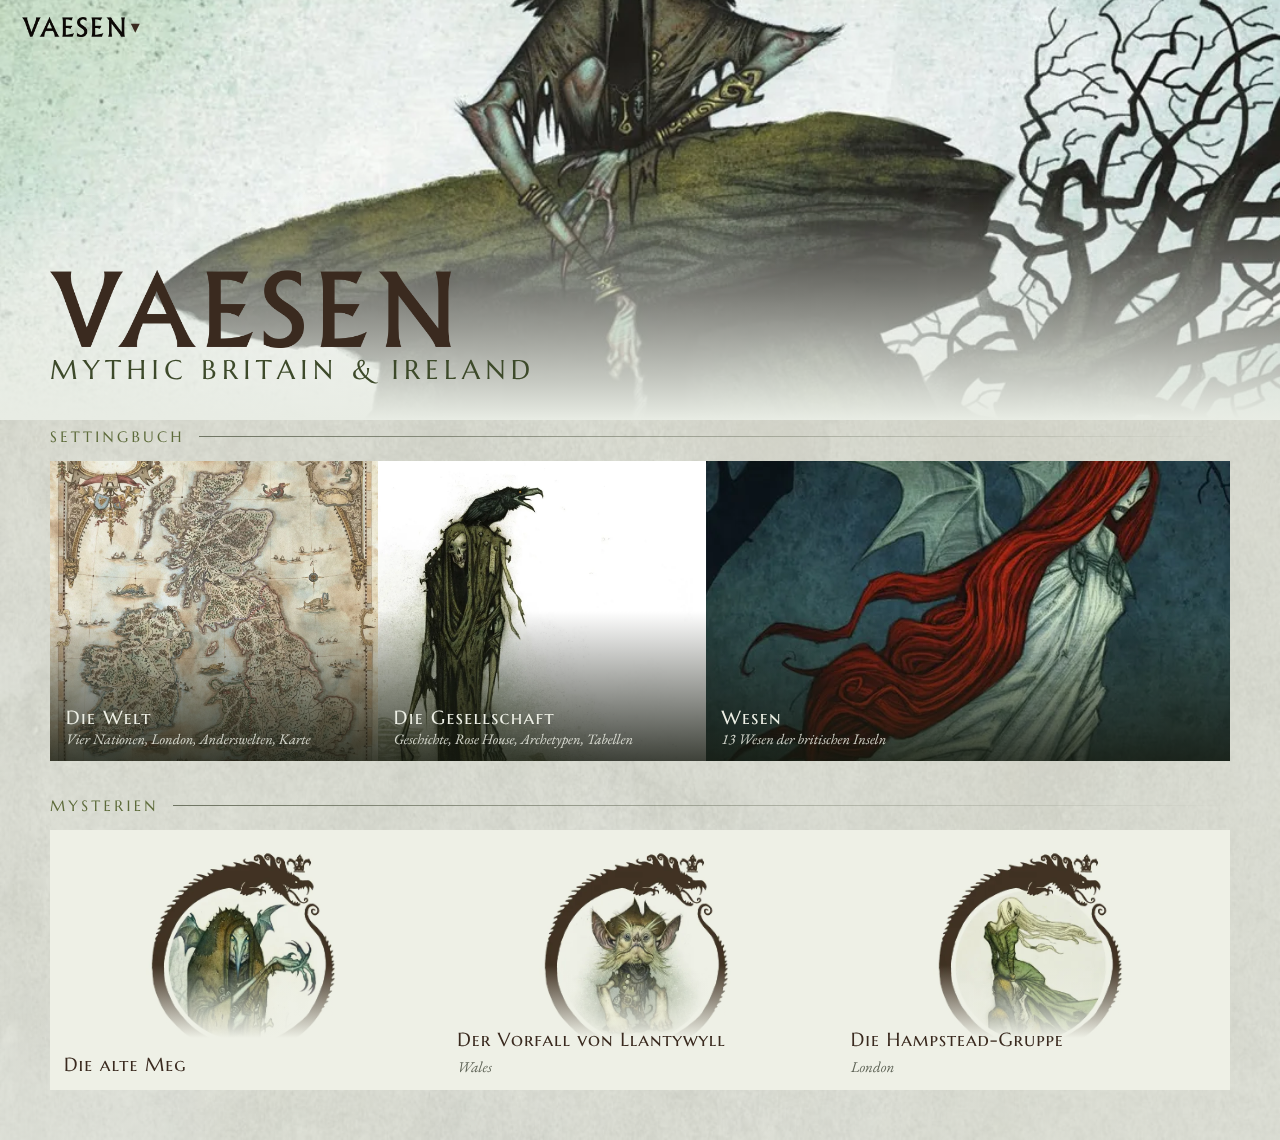
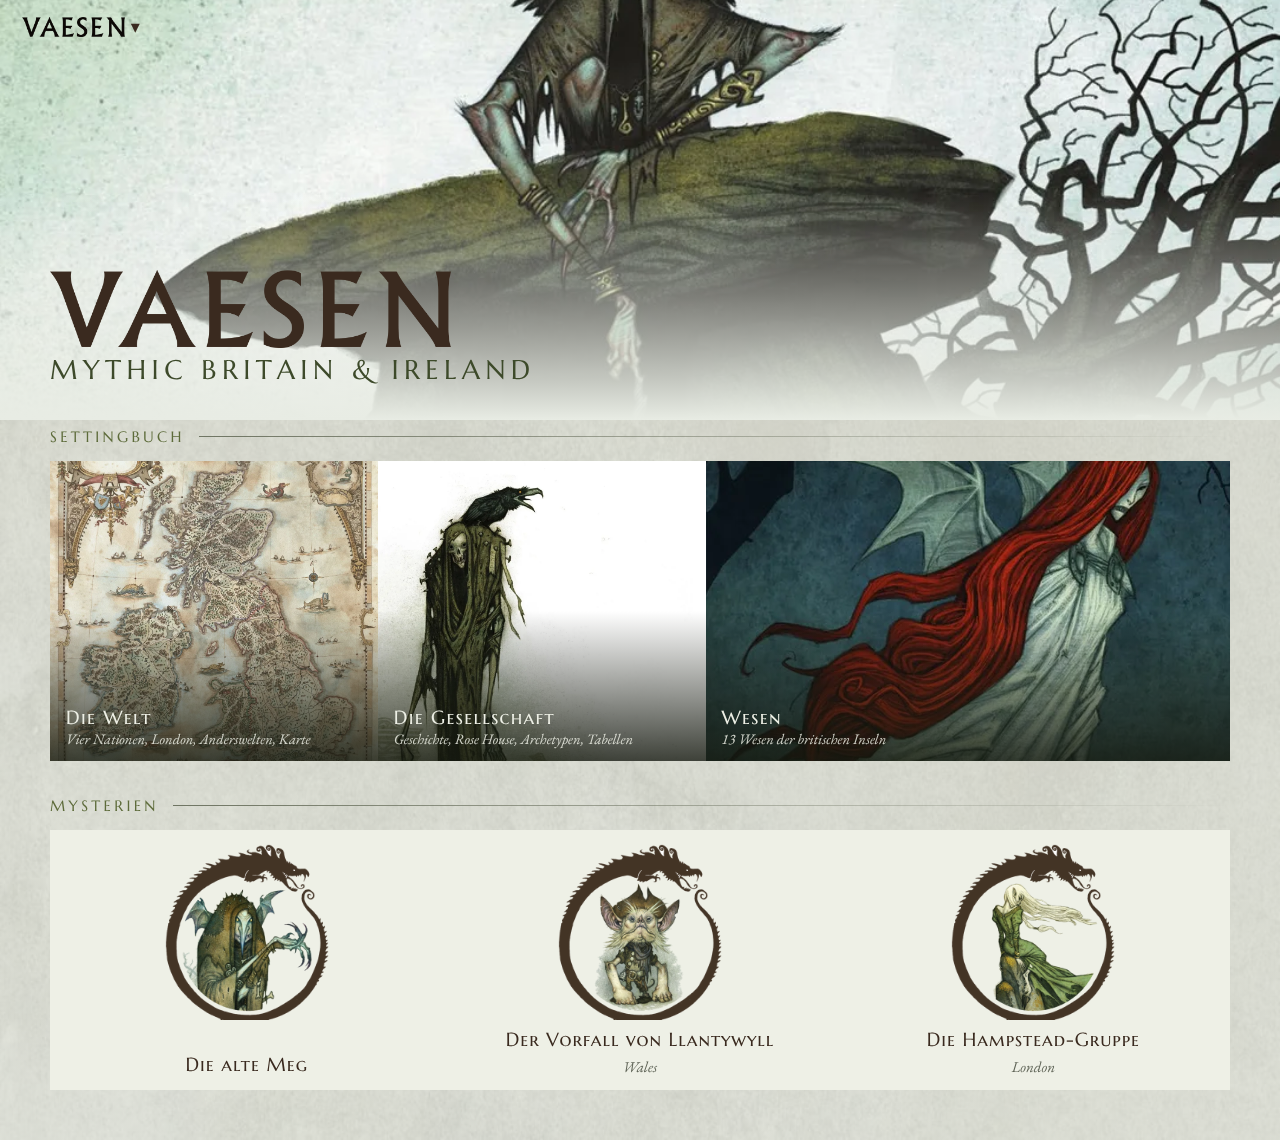
Vaesen-Plan: Embleme freigestellt und vollständig sichtbar, Entscheidungen eingetragen

Changed region(s): [[0.375, 0.7368, 0.5938, 0.9211], [0.6562, 0.7368, 0.875, 0.9211], [0.0938, 0.7368, 0.2812, 0.9518]]

diff --git a/plan/vaesen/mys/start.html b/plan/vaesen/mys/start.html
@@ -8,11 +8,13 @@
 .lab small{font-family:Mar;font-size:11.5px;letter-spacing:.2em;text-transform:uppercase;color:#e7b9a6;margin-bottom:3px}
 .lab .lk{font-family:Mar;font-size:12px;letter-spacing:.14em;margin-top:8px;border-bottom:1px solid #e7b9a6;align-self:flex-start;color:#f0d7cb}
 .st{display:flex}
-.st a{position:relative;flex:1 1 0;min-width:0;overflow:hidden;background:#efe8d8 var(--im) center 30%/auto 78% no-repeat;background-blend-mode:multiply;transition:flex-grow .3s}
+.st a{position:relative;flex:1 1 0;min-width:0;overflow:hidden;background:#efe8d8 var(--im) center 14px/auto calc(100% - 82px) no-repeat;background-blend-mode:multiply;transition:flex-grow .3s}
 .st a.ph{background-size:cover;background-position:center}
-.st a:after{content:"";position:absolute;inset:0;background:linear-gradient(to top,rgba(239,232,216,1) 22%,rgba(239,232,216,0) 50%)}
+.st a:after{content:none}
+.st a.ph:after{content:""}
 .st a.ph:after{background:linear-gradient(to top,rgba(28,19,11,.85),rgba(28,19,11,0) 52%)}
 .st a.ph .t{color:#f3ecd9}
+.st a:not(.ph) .t{bottom:10px;min-height:52px;display:flex;flex-direction:column;justify-content:flex-end}
 .st a.hov{flex-grow:1.7}
 .t{position:absolute;left:12px;right:10px;bottom:11px;z-index:2;color:var(--ink)}
 .t b{display:block;font-family:Mar;font-weight:400;font-size:17px;letter-spacing:.04em;line-height:1.12}
@@ -25,9 +27,9 @@
 <div class="wrap"><div class="sh">Mysterien</div>
 <div class="row two"><div class="g g1"><div class="lab" style="--im:url(../../../vaesen/img/cover_grundregelwerk.webp)"><small>Grundregelwerk</small><b>Einführung</b></div><div class="st"><a style="--im:url(../../../vaesen/img/tanz/eroeffnung.webp)"><div class="t"><b>Der Tanz der Träume</b><small>Upsala</small></div></a></div></div><div class="g g2"><div class="lab" style="--im:url(../../../vaesen/img/cover_seasons.webp)"><small>Mysteriensammlung</small><b>Seasons of Mystery</b><span class="lk">Vorwort</span></div><div class="st"><a class="ph" style="--im:url(../../../vaesen/img/som/tod_eroeffnung.webp)"><span class="n">Frühling</span><div class="t"><b>Ein Tanz mit dem Tod</b><small>Dalarna</small></div></a><a class="ph hov" style="--im:url(../../../vaesen/img/som/feuer_eroeffnung.webp)"><span class="n">Sommer</span><div class="t"><b>Feuerherz</b><small>Småland · Countdown 1 / 4</small><em style="color:#f0c9b8">Weiterspielen</em></div></a><a class="ph" style="--im:url(../../../vaesen/img/som/teufel_eroeffnung.webp)"><span class="n">Herbst</span><div class="t"><b>Der Teufel im Moor</b><small>Jütland</small></div></a><a class="ph" style="--im:url(../../../vaesen/img/som/winter_eroeffnung.webp)"><span class="n">Winter</span><div class="t"><b>Ein Wintermärchen</b><small>Ingermanland</small></div></a></div></div></div>
 <div class="row"><div class="lab" style="--im:url(../../../vaesen/img/cover_wicked.webp)"><small>Mysteriensammlung</small><b>A Wicked Secret</b></div>
-<div class="st"><a style="--im:url(em/wick_8.webp)"><div class="t"><b>Das Silber des Meeres</b></div></a><a style="--im:url(em/wick_30.webp)"><div class="t"><b>Ein böses Geheimnis</b></div></a><a style="--im:url(em/wick_62.webp)"><div class="t"><b>Die Nachtsau</b></div></a><a style="--im:url(em/wick_80.webp)"><div class="t"><b>Das Lied vom fallenden Stern</b></div></a></div></div>
+<div class="st"><a style="--im:url(em/wick_8.png)"><div class="t"><b>Das Silber des Meeres</b></div></a><a style="--im:url(em/wick_30.png)"><div class="t"><b>Ein böses Geheimnis</b></div></a><a style="--im:url(em/wick_62.png)"><div class="t"><b>Die Nachtsau</b></div></a><a style="--im:url(em/wick_80.png)"><div class="t"><b>Das Lied vom fallenden Stern</b></div></a></div></div>
 <div class="row"><div class="lab" style="--im:url(../../../vaesen/img/cover_city.webp)"><small>Kampagne · Stockholm</small><b>City of My Nightmares</b><span class="lk">Einführung</span></div>
-<div class="st"><a style="--im:url(em/city_14.webp)"><span class="n">1</span><div class="t"><b>Witterung eines Mörders</b></div></a><a style="--im:url(em/city_42.webp)"><span class="n">2</span><div class="t"><b>Lied an den Mond</b></div></a><a style="--im:url(em/city_66.webp)"><span class="n">3</span><div class="t"><b>Die Spukbibliothek</b></div></a><a style="--im:url(em/city_86.webp)"><span class="n">4</span><div class="t"><b>Stadt meiner Albträume</b></div></a></div></div>
+<div class="st"><a style="--im:url(em/city_14.png)"><span class="n">1</span><div class="t"><b>Witterung eines Mörders</b></div></a><a style="--im:url(em/city_42.png)"><span class="n">2</span><div class="t"><b>Lied an den Mond</b></div></a><a style="--im:url(em/city_66.png)"><span class="n">3</span><div class="t"><b>Die Spukbibliothek</b></div></a><a style="--im:url(em/city_86.png)"><span class="n">4</span><div class="t"><b>Stadt meiner Albträume</b></div></a></div></div>
 <div class="row"><div class="lab" style="--im:url(../../../vaesen/img/cover_lost.webp)"><small>Kampagne · Lappland</small><b>The Lost Mountain Saga</b><span class="lk">Einführung</span></div>
-<div class="st"><a style="--im:url(em/lost_14.webp)"><span class="n">1</span><div class="t"><b>Pflicht und Verzweiflung</b></div></a><a style="--im:url(em/lost_28.webp)"><span class="n">2</span><div class="t"><b>Der Beginn des Falls</b></div></a><a style="--im:url(em/lost_46.webp)"><span class="n">3</span><div class="t"><b>Wo die Sonne stirbt</b></div></a><a style="--im:url(em/lost_58.webp)"><span class="n">4</span><div class="t"><b>Der Prinz und die Hexe</b></div></a><a style="--im:url(em/lost_70.webp)"><span class="n">5</span><div class="t"><b>Die Saga vom verlorenen Berg</b></div></a></div></div>
+<div class="st"><a style="--im:url(em/lost_14.png)"><span class="n">1</span><div class="t"><b>Pflicht und Verzweiflung</b></div></a><a style="--im:url(em/lost_28.png)"><span class="n">2</span><div class="t"><b>Der Beginn des Falls</b></div></a><a style="--im:url(em/lost_46.png)"><span class="n">3</span><div class="t"><b>Wo die Sonne stirbt</b></div></a><a style="--im:url(em/lost_58.png)"><span class="n">4</span><div class="t"><b>Der Prinz und die Hexe</b></div></a><a style="--im:url(em/lost_70.png)"><span class="n">5</span><div class="t"><b>Die Saga vom verlorenen Berg</b></div></a></div></div>
 </div></body></html>

diff --git a/plan/vaesen/mys/mbi.html b/plan/vaesen/mys/mbi.html
@@ -14,9 +14,9 @@ body{background:linear-gradient(rgba(232,236,228,.82),rgba(232,236,228,.82)),url
 .strip b{position:absolute;left:16px;bottom:14px;z-index:2;font-family:Mar;font-weight:400;color:#eef0e6;font-size:19px;letter-spacing:.07em;line-height:1.1}
 .strip small{display:block;font-family:EBG;font-style:italic;font-size:14.5px;letter-spacing:0;opacity:.85;margin-top:3px}
 .my{display:flex;height:260px}
-.my a{position:relative;flex:1;background:#eef0e6 var(--im) center 25%/auto 80% no-repeat;background-blend-mode:multiply}
-.my a:after{content:"";position:absolute;inset:0;background:linear-gradient(to top,rgba(238,240,230,1) 20%,rgba(238,240,230,0) 48%)}
-.my .t{position:absolute;left:14px;bottom:12px;z-index:2}
+.my a{position:relative;flex:1;background:#eef0e6 var(--im) center 14px/auto calc(100% - 84px) no-repeat}
+
+.my .t{position:absolute;left:0;right:0;bottom:12px;z-index:2;text-align:center}
 .my b{display:block;font-family:Mar;font-weight:400;font-size:19px;letter-spacing:.05em}.my small{font-style:italic;color:var(--soft);font-size:15px}
 .dd{position:absolute;top:60px;left:22px;width:300px;background:#f6f3ea;box-shadow:0 10px 30px rgba(0,0,0,.25);padding:10px 0;z-index:9;font-family:Mar;font-size:16px}
 .dd div{padding:6px 18px;color:#3a2a1f}.dd .sub{padding-left:38px;font-size:15px;color:#6b5a4a}.dd .on{color:#5d6b3a;background:rgba(93,107,58,.1)}
@@ -28,5 +28,5 @@ body{background:linear-gradient(rgba(232,236,228,.82),rgba(232,236,228,.82)),url
 <div class="wrap"><div class="sh">Settingbuch</div>
 <div class="strip"><a style="background-image:url(mbi/karte.webp);background-position:50% 30%"><b>Die Welt<small>Vier Nationen, London, Anderswelten, Karte</small></b></a><a style="background-image:url(mbi/rose.webp);background-position:50% 20%"><b>Die Gesellschaft<small>Geschichte, Rose House, Archetypen, Tabellen</small></b></a><a style="background-image:url(mbi/banshee.webp);background-position:50% 25%;flex:1.6"><b>Wesen<small>13 Wesen der britischen Inseln</small></b></a></div>
 <div class="sh" style="margin-top:34px">Mysterien</div>
-<div class="my"><a style="--im:url(em/mbi_88.webp)"><div class="t"><b>Die alte Meg</b></div></a><a style="--im:url(em/mbi_110.webp)"><div class="t"><b>Der Vorfall von Llantywyll</b><small>Wales</small></div></a><a style="--im:url(em/mbi_130.webp)"><div class="t"><b>Die Hampstead-Gruppe</b><small>London</small></div></a></div>
+<div class="my"><a style="--im:url(em/mbi_88.png)"><div class="t"><b>Die alte Meg</b></div></a><a style="--im:url(em/mbi_110.png)"><div class="t"><b>Der Vorfall von Llantywyll</b><small>Wales</small></div></a><a style="--im:url(em/mbi_130.png)"><div class="t"><b>Die Hampstead-Gruppe</b><small>London</small></div></a></div>
 </div></body></html>

diff --git a/sw.js b/sw.js
@@ -1,6 +1,6 @@
 // Offline-Cache. Bei jeder Änderung an index.html die Version erhöhen,
 // damit installierte Apps die neue Fassung laden.
-const VERSION = "v1313sq";
+const VERSION = "v1314sq";
 // Ein dauerhafter Cache über alle Versionen: Dateien werden nicht bei jeder neuen
 // Version komplett neu geladen, sondern einzeln im Hintergrund abgeglichen.
 const CACHE = "erzaehler-tafel-dateien";

diff --git a/plan/VAESEN_BUECHER_PLAN.md b/plan/VAESEN_BUECHER_PLAN.md
@@ -67,7 +67,8 @@ Alle Mysterien haben dieselbe Buchgliederung (Vorspiel › Hintergrund, Konflikt
 - Der Bereich „Mysterien“ wird **eine Reihe pro Buch**: links eine Buch-Kachel (Cover, Art: Einführung/Mysteriensammlung/Kampagne, Ort), rechts lückenlos die Mysterien als Bildstreifen mit Hover-Vergrößerung.
 - Grundregelwerk und Seasons teilen sich die erste Reihe (sonst stünde Tanz der Träume allein).
 - Kampagnen: Mysterien nummeriert (1–4 bzw. 1–5); in der Buch-Kachel ein Link **„Einführung“** zur Kampagnen-Einführung (eigene Leseseite mit Seitenleiste, Karte, Kampagnen-NSC).
-- Bilder: Seasons behalten ihre Vollbilder; alle anderen nutzen das Ouroboros-Eröffnungsbild, **sauber aus dem PDF extrahiert** (nicht von der Seite abfotografiert wie im Entwurf – dort sind die Papierkanten noch sichtbar).
+- Bilder: Seasons behalten ihre Vollbilder; alle anderen nutzen das Ouroboros-Eröffnungsbild, **freigestellt** (Papier transparent, vom Rand her ausgeschnitten, damit helle Stellen im Bild erhalten bleiben – Verfahren wie in den Entwurfsdateien `plan/vaesen/mys/em/*.png`).
+- **Embleme nie ausblenden oder mit Verlauf überdecken:** Das Emblem steht vollständig oben in der Kachel, der Titel darunter auf dem Papier (Freigabe Moritz, 27. Nov. 2026).
 - Hover zeigt Spielstand und „Starten“/„Weiterspielen“ wie heute.
 - Bücherleiste unten bleibt; eingebaute Bücher farbig, nicht eingebaute grau mit PDF.
 
@@ -110,7 +111,10 @@ Alle Mysterien haben dieselbe Buchgliederung (Vorspiel › Hintergrund, Konflikt
 
 Etappen 3–7 sind reine Übersetzungs- und Datenarbeit nach festem Muster und eignen sich für Sonnet/Agents (ein Agent pro Mysterium, Ergebnis gegen das PDF prüfen).
 
-## 8. Offene Fragen an Moritz
+## 8. Entscheidungen
+Am 27. Nov. 2026 freigegeben: Leitstand v2, Startseite mit einer Reihe pro Buch, Untersettings Britain & Ireland und Carpathia, Thursday’s Child nur als PDF, Buchtitel englisch und Mysterientitel deutsch, Reihenfolge wie in Abschnitt 7.
+
+### Ursprünglich offene Fragen
 1. Leitstand v2 so freigeben (Unterleiste mit 5 Punkten + Countdown + Nachschlage-Schublade, Lesetext breit mit schwebenden Elementen)?
 2. Startseite: Mysterien eine Reihe pro Buch?
 3. Britain & Ireland und Carpathia als Untersettings mit eigener Startseite (statt alles im Hauptsetting)?
